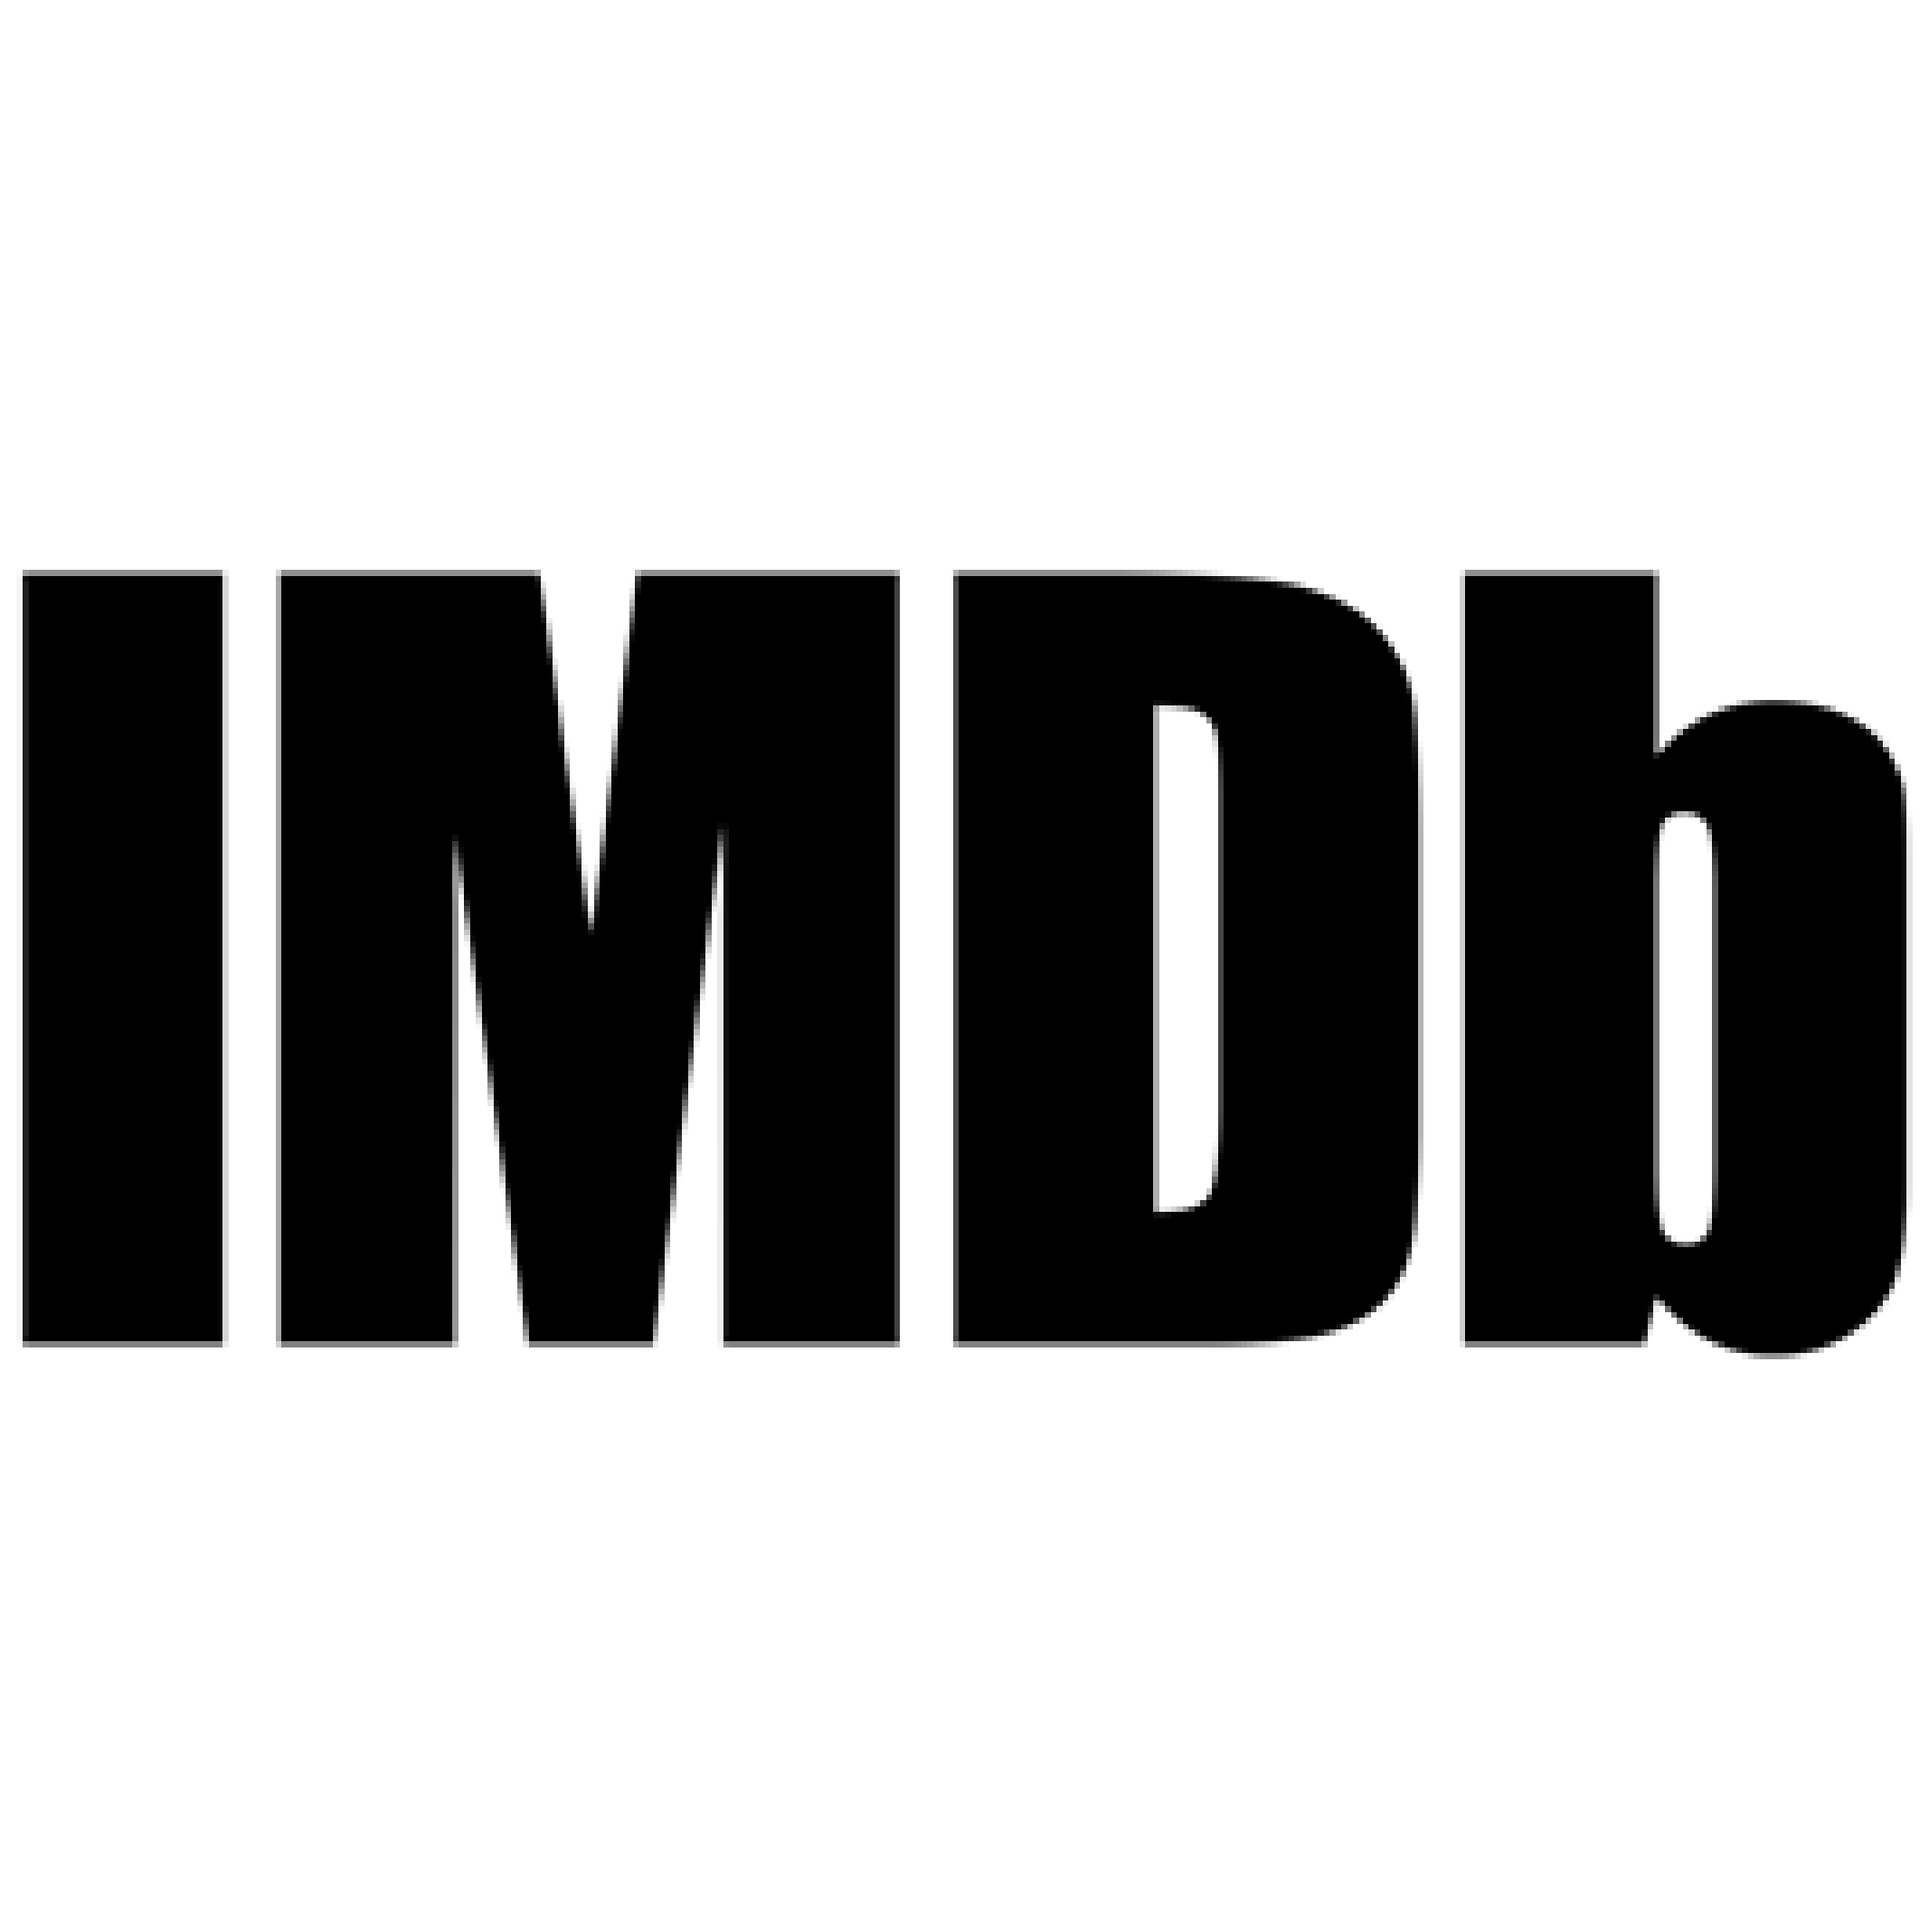
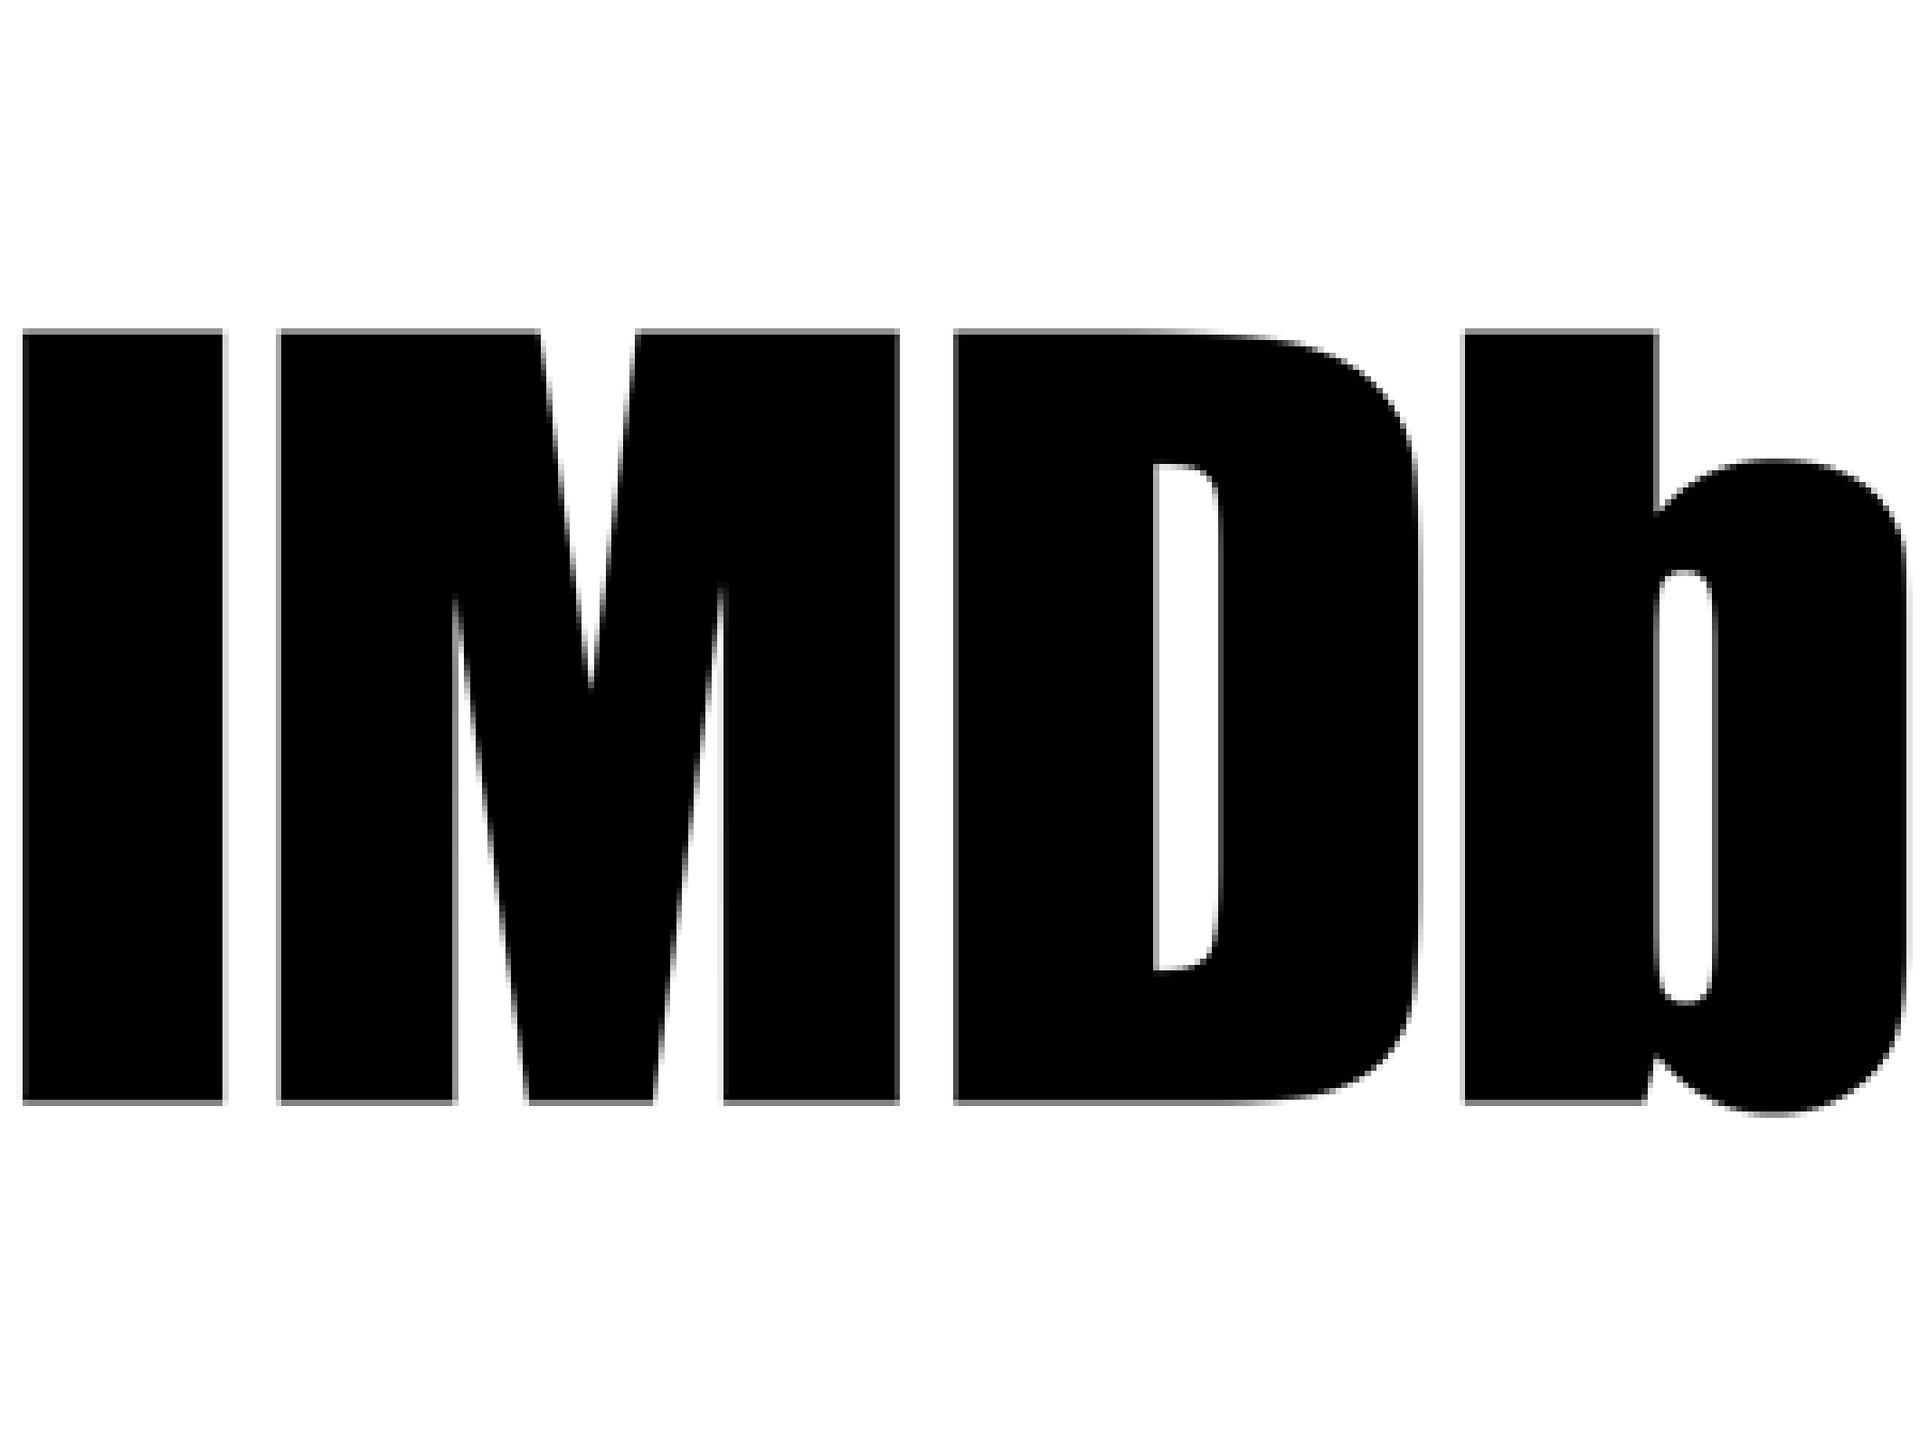
01/17 13:22

diff --git a/index.html b/index.html
@@ -887,7 +887,7 @@ body, html {
           &nbsp;<a href="//linkedin.com/in/zi-lem-843aa38" style="color:inherit; text-decoration:none"><img src="//rawnarrativ.es/images/linkedin_bw.png" width='80' height='80'></a>
           <br>
           <br>
-          &nbsp;<a href="//imdb.com/name/nm1749939" style="color:inherit; text-decoration:none"><img src="//rawnarrativ.es/images/imdb_bw.png" width='80' height='80'></a>
+          &nbsp;<a href="//imdb.com/name/nm1749939" style="color:inherit; text-decoration:none"><img src="//rawnarrativ.es/images/imdb_bw.png" width='80' height='60'></a>
           <!--&nbsp;<a href="//instagram.com/RawNarratives"><img src="https://rawnarrativ.es/images/instagram_bw.png" width='30' height='30'></a>&nbsp;
           <a href="//twitter.com/RawNarratives"><img src="https://rawnarrativ.es/images/twitter_bw.png" width='30' height='30'></a>&nbsp;&nbsp;&nbsp;-->
         </p>
